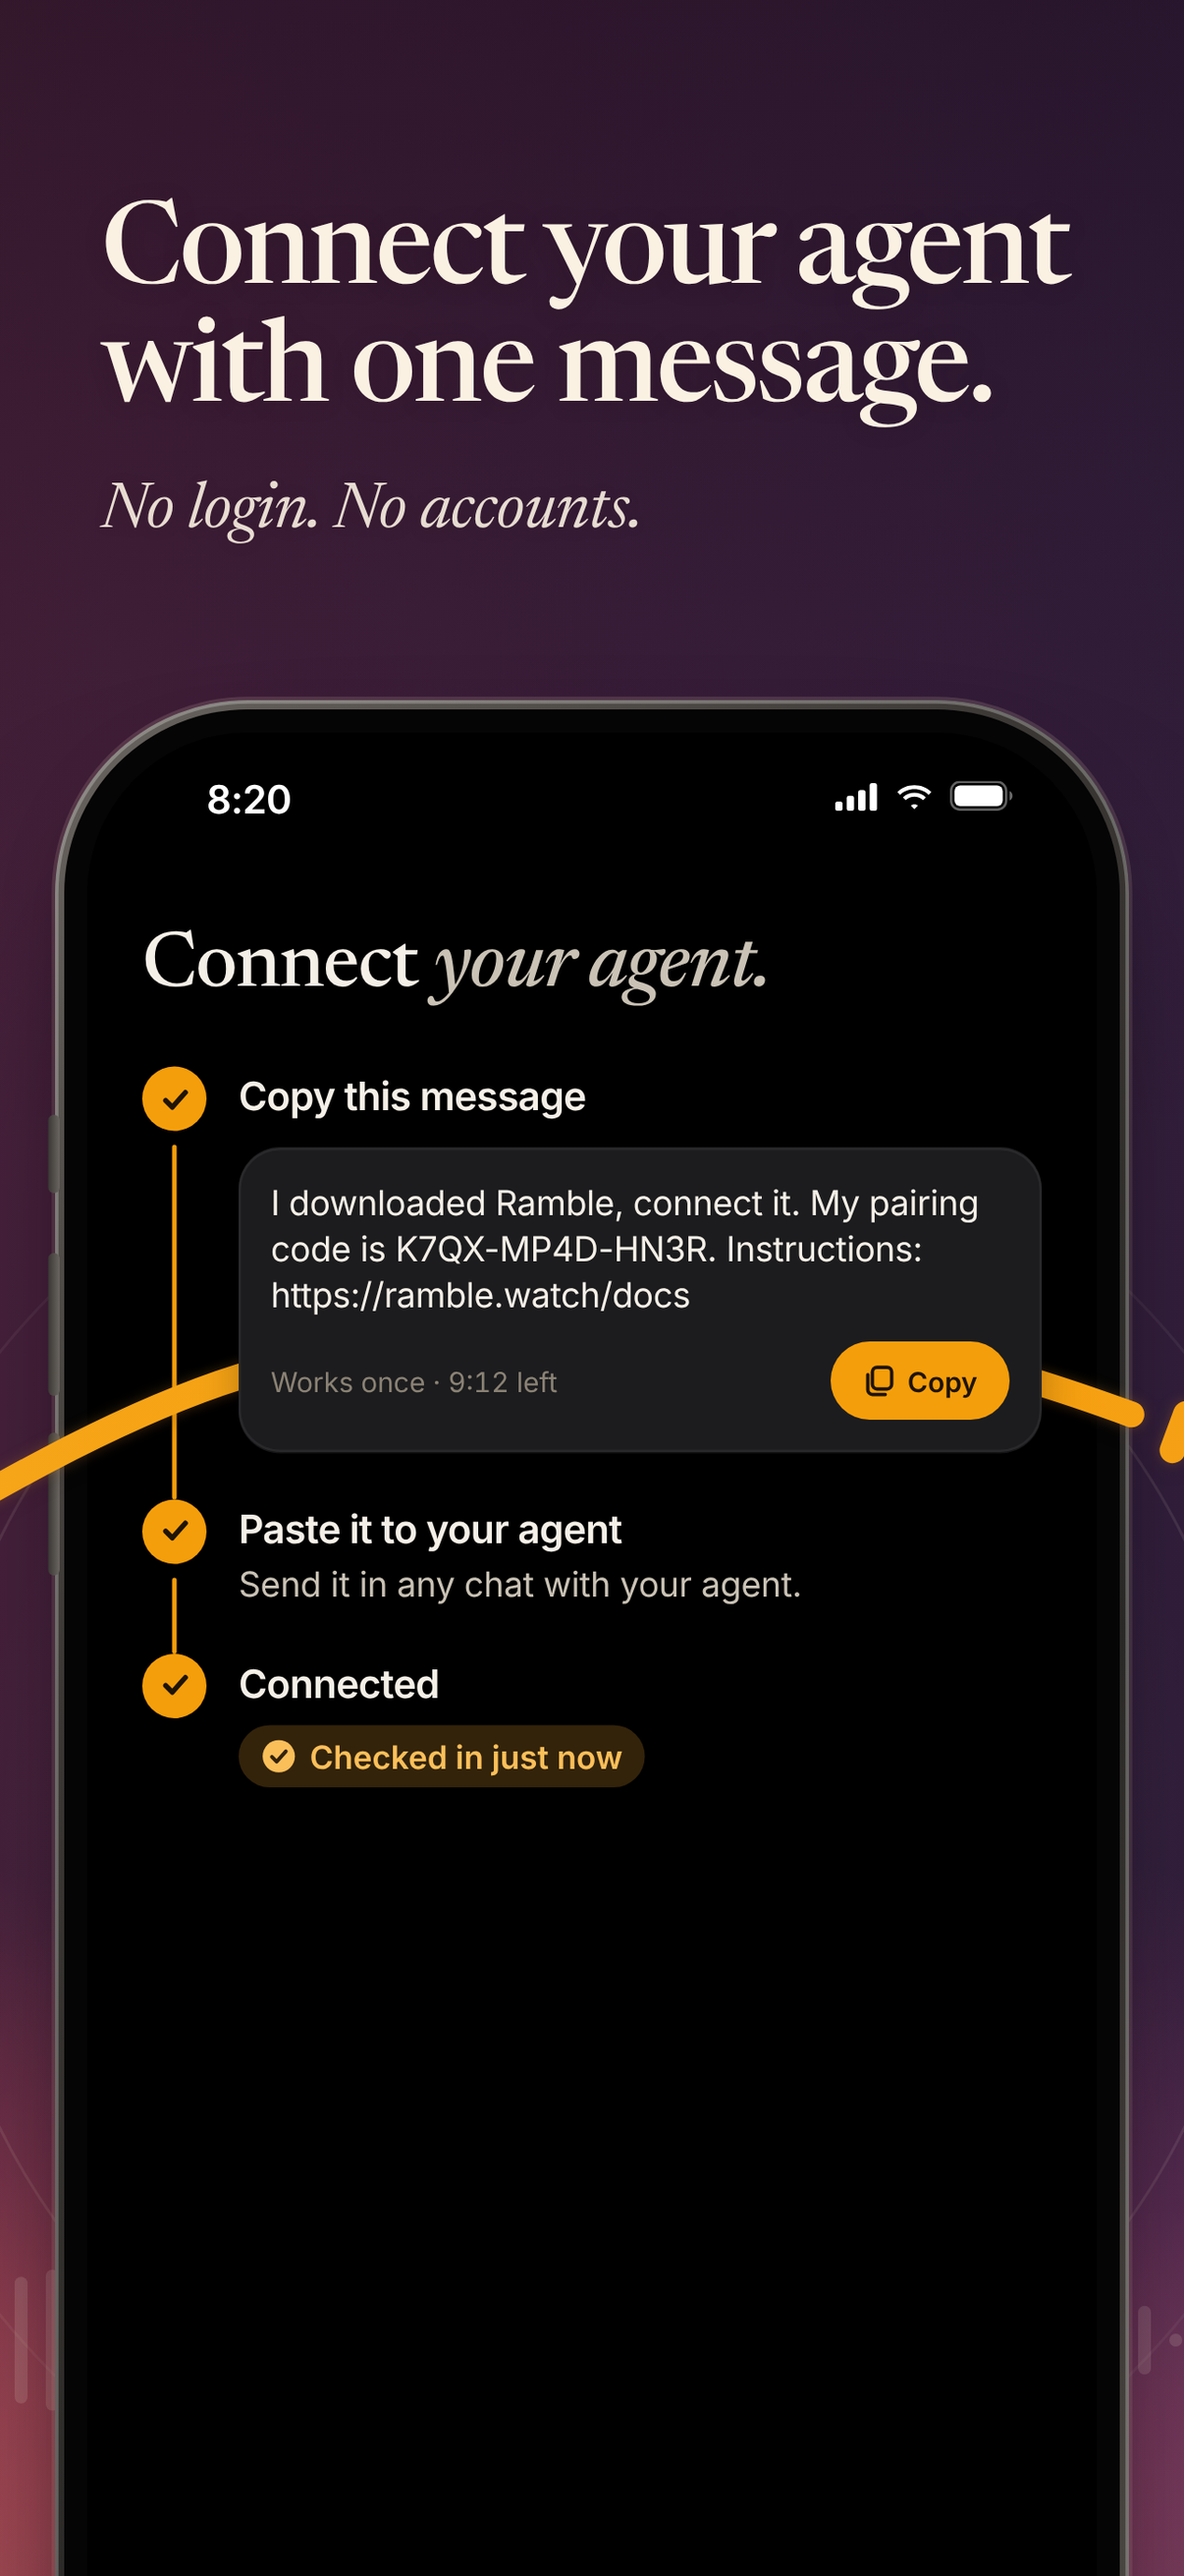
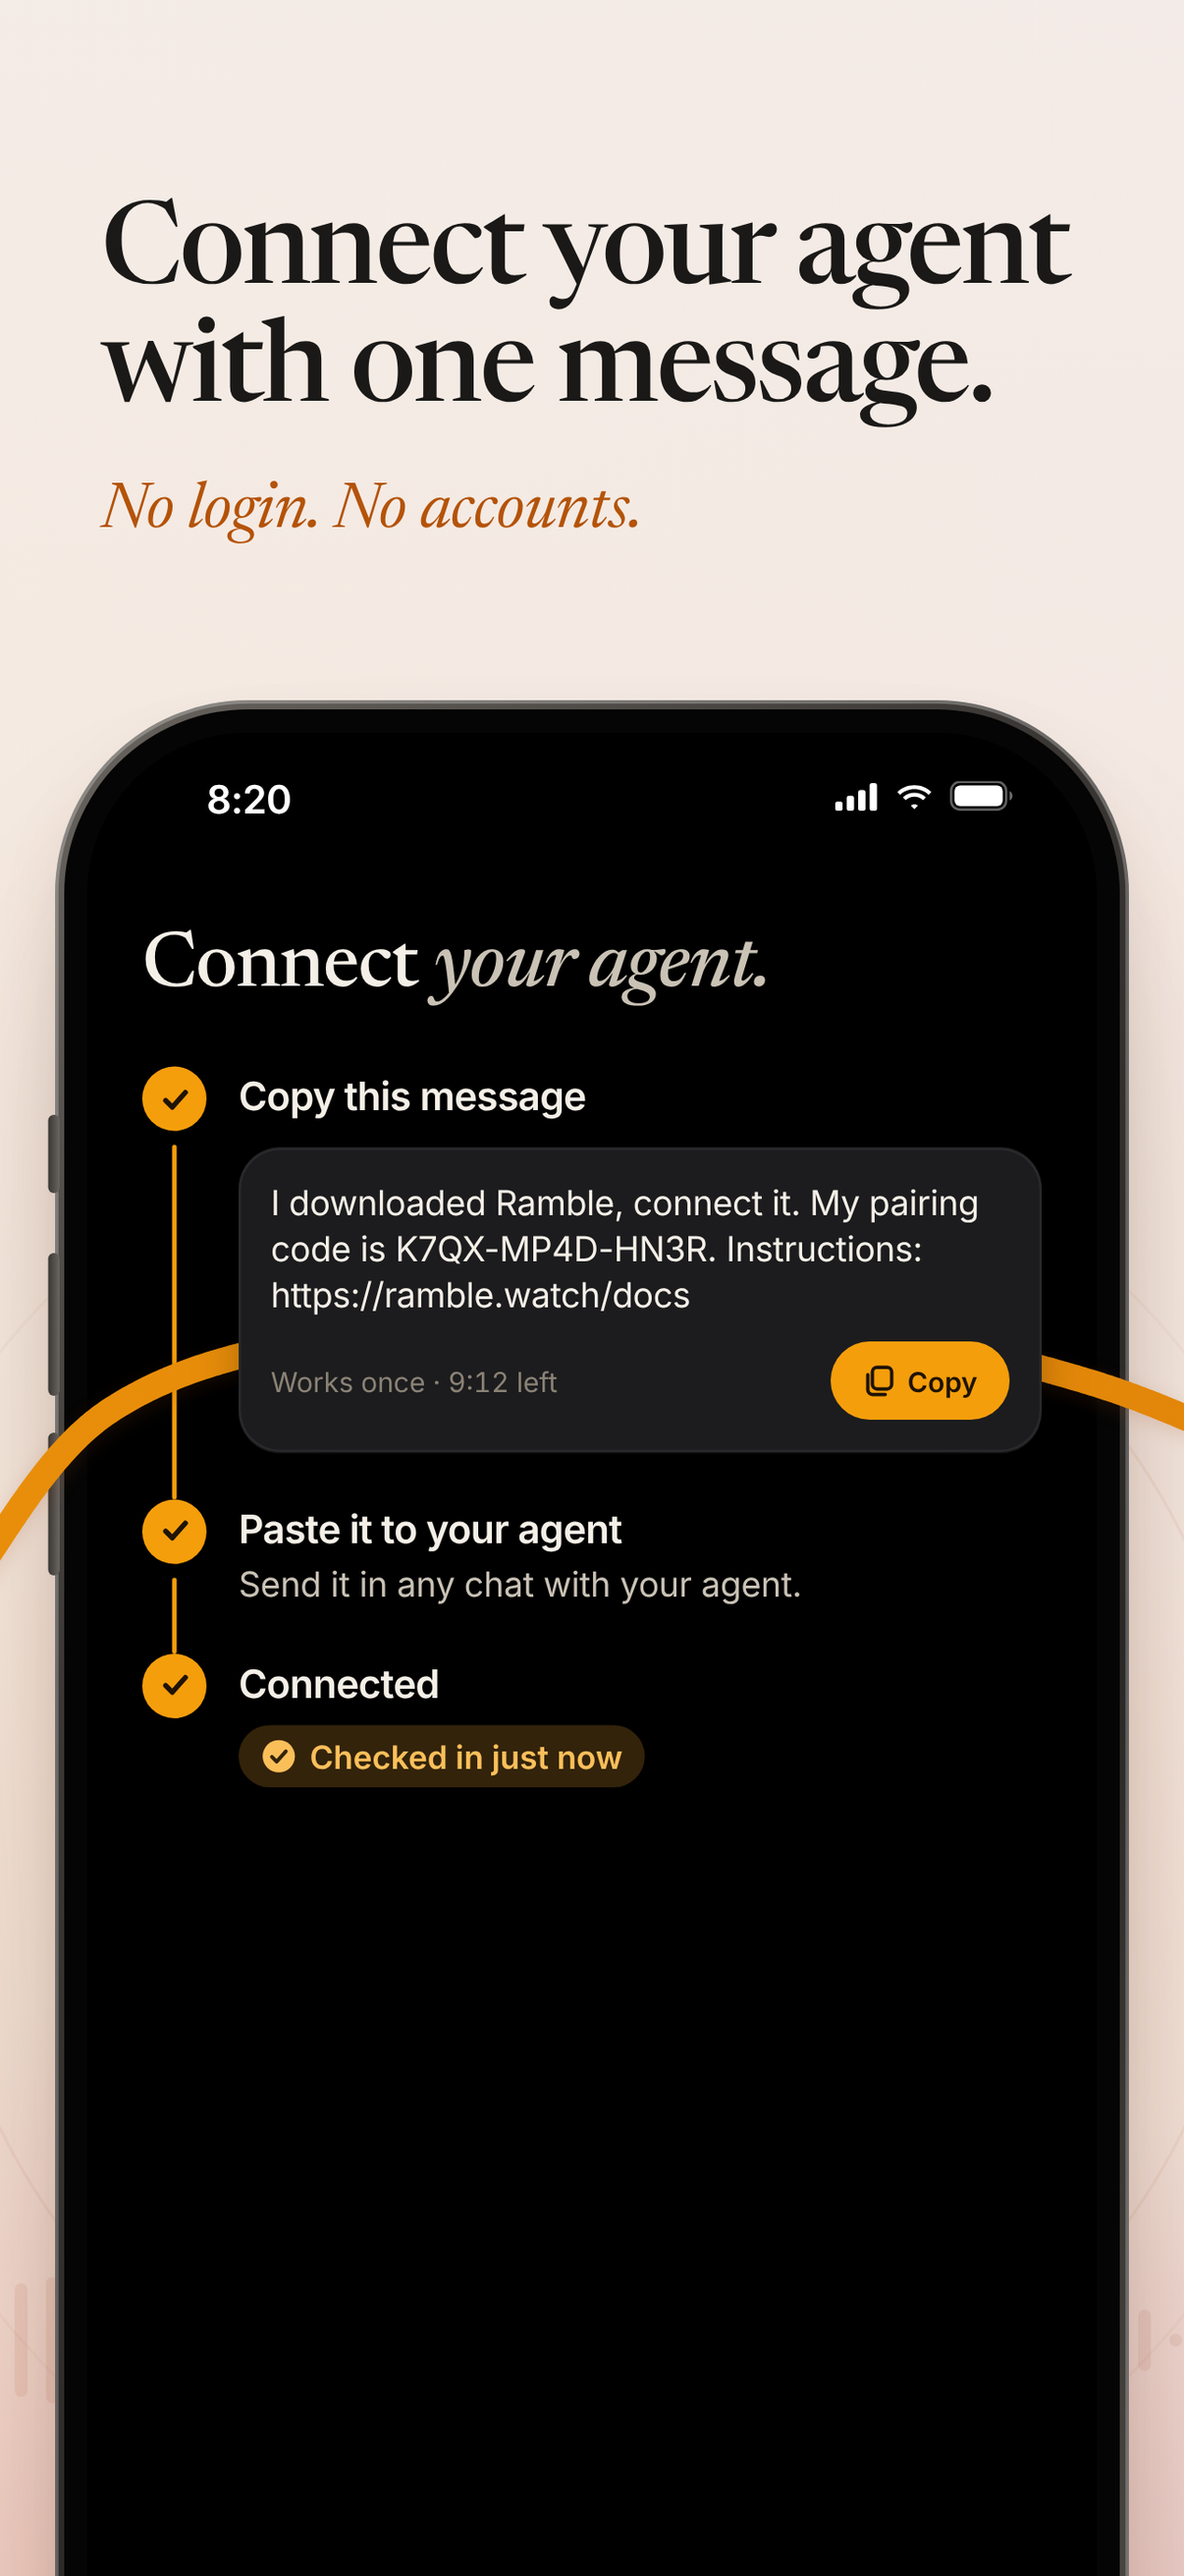
App Store screenshots: light sunset wash and one flowing line
Follows Justin's sketch: dots rise out of the watch and join the line, a hairpin carries the words, the line curls into the watch, crosses the phone under the message and eases into the relay node. Frame 2's watch sits higher. Source: one-line.html?bg=w.

Claude-Session: https://claude.ai/code/session_01TreUG6Gw8YWAnJM4u7RM4H

diff --git a/images/appstore/2026-sunset/source/one-line.html b/images/appstore/2026-sunset/source/one-line.html
@@ -164,6 +164,24 @@ body[data-bg="e"] #bg {
     linear-gradient(180deg, rgba(255,240,222,.12) 0%, rgba(255,240,222,0) 30%, rgba(0,0,0,0) 70%, rgba(40,24,12,.18) 100%),
     linear-gradient(90deg, #B9A088 0%, #AA9179 40%, #9C836E 75%, #8E7663 100%);
 }
+/* w: the light sunset wash of the website hero and the product page header, with the flowing line */
+body[data-bg="w"] { --t1: #1A1917; --t2: #1A1917; --t3: #1A1917; --t4: #1A1917; --t5: #1A1917; --words: #8C4A1C;
+  --a0: #F59E0B; --a1: #EE930A; --a2: #E58A0A; --a3: #D97706; --node-fill: transparent; }
+body[data-bg="w"] .copy p { color: #B45309; opacity: 1; }
+body[data-bg="w"] #ink { filter: drop-shadow(0 6px 10px rgba(150,70,20,.16)); }
+body[data-bg="w"] .watch .case { box-shadow: inset 0 0 0 1.5px rgba(255,255,255,.22), inset 0 2px 2px rgba(255,255,255,.12), 0 34px 60px -20px rgba(90,50,30,.40), 0 10px 22px -8px rgba(90,50,30,.26); }
+body[data-bg="w"].dark .phone { box-shadow: 0 60px 100px -40px rgba(90,50,30,.45), 0 16px 32px -10px rgba(90,50,30,.25), inset 0 0 0 1.5px rgba(255,255,255,.26); }
+body[data-bg="w"].dark .phone.set { box-shadow: 0 50px 70px -30px rgba(90,50,30,.40), inset 0 0 0 1.5px rgba(255,255,255,.26); }
+body[data-bg="w"] #bg {
+  background:
+    radial-gradient(1500px 1250px at 300px 2900px, rgba(244,150,70,.34) 0%, rgba(244,150,70,0) 70%),
+    radial-gradient(1500px 1250px at 1600px 2950px, rgba(242,130,70,.30) 0%, rgba(242,130,70,0) 70%),
+    radial-gradient(1500px 1250px at 2950px 2900px, rgba(232,110,86,.28) 0%, rgba(232,110,86,0) 70%),
+    radial-gradient(1500px 1250px at 4400px 2950px, rgba(214,100,112,.26) 0%, rgba(214,100,112,0) 70%),
+    radial-gradient(1500px 1250px at 5900px 2900px, rgba(160,88,146,.24) 0%, rgba(160,88,146,0) 70%),
+    linear-gradient(90deg, rgba(250,214,170,.18) 0%, rgba(246,196,170,.14) 50%, rgba(232,190,200,.16) 100%),
+    linear-gradient(180deg, #F4F3EF 0%, #F6EFE6 50%, #F3E3D6 100%);
+}
 
 * { box-sizing: border-box; margin: 0; padding: 0; }
 html, body { width: 6450px; height: 2796px; overflow: hidden; background: #1C1512; }
@@ -520,6 +538,11 @@ if (['p','q','r'].includes(params.get('bg'))) { FLAIR = 'o'; }
 if (params.get('bg') === 'p') WAVE = { h: 250, op: .12, echo: .055 };
 if (params.get('bg') === 'q') WAVE = { h: 290, op: .15, echo: .07 };
 if (params.get('bg') === 'r') WAVE = { h: 290, op: .15, echo: 0 };
+if (params.get('bg') === 'w') { LINE = 'flow'; FLAIR = 'o'; WAVE = { h: 260, op: .10, echo: 0 };
+  // flow layout: frame 2's watch sits higher, frame 3's watch moves right so the hairpin curls into its side
+  const devs = document.querySelectorAll('#pano > .dev');
+  devs[2].style.top = '1960px';
+  devs[3].style.left = '3420px'; devs[3].style.top = '2010px'; }
 if (params.has('debug')) document.body.classList.add('debug');
 
 // ?ipad=1: the phones become iPads (for the 13" iPad set, see ipad-render.js)
@@ -647,7 +670,34 @@ const NODES_T = [
 ];
 // the iPad's message box is wider and shorter: stay level through it for longer
 if (params.has('ipad')) NODES_T[10] = [4640, MSGY, 0, 420, 560];
-const d =LINE === 'sine' ? 'M' + LP.map(q => q[0].toFixed(1) + ',' + q[1].toFixed(1)).join(' L') : nodesToPath(LINE === 'r9' ? NODES : NODES_T);
+// flow: one hand-drawn line through all five frames (Justin's sketch). A centripetal Catmull-Rom spline through
+// loose points, so it bends like a pen stroke: up out of the watch, a hairpin with the words, round into the
+// watch, across the phone under the message, and level into the relay node.
+const FLOW = [
+  [1112, 1806], [1380, 1600], [1720, 1385], [2110, 1190], [2520, 1060],       // F1-F2: rising, dotted until it reconnects
+  [2950, 1006], [3330,  998], [3540, 1062], [3590, 1170], [3470, 1290],       // F3: run A, the hairpin
+  [3140, 1430], [2850, 1600], [2740, 1790], [2830, 1950], [3090, 2010],       //     run B down to the left, round into the watch
+  [3420, 1975], [3740, 1830], [3990, MSGY + 120], [4300, MSGY + 30], [4700, MSGY + 20], // F4: out by the crown, up into the message
+  [5060, MSGY + 90], [5345, 1622],                                            // F5: easing down into the relay node
+];
+function flowPath(P, alpha = 0.5) {
+  const Q = [[2 * P[0][0] - P[1][0], 2 * P[0][1] - P[1][1]], ...P, [2 * P[P.length - 1][0] - P[P.length - 2][0], 2 * P[P.length - 1][1] - P[P.length - 2][1]]];
+  const out = [P[0]];
+  for (let i = 1; i < Q.length - 2; i++) {
+    const [p0, p1, p2, p3] = [Q[i - 1], Q[i], Q[i + 1], Q[i + 2]];
+    const tj = (a, b) => Math.pow(Math.hypot(b[0] - a[0], b[1] - a[1]), alpha);
+    const t0 = 0, t1 = t0 + tj(p0, p1), t2 = t1 + tj(p1, p2), t3 = t2 + tj(p2, p3);
+    const n = Math.ceil(Math.hypot(p2[0] - p1[0], p2[1] - p1[1]) / 4);
+    for (let k = 1; k <= n; k++) {
+      const t = t1 + (t2 - t1) * k / n, L2 = (a, b, ta, tb) => [0, 1].map(j => (tb - t) / (tb - ta) * a[j] + (t - ta) / (tb - ta) * b[j]);
+      const A1 = L2(p0, p1, t0, t1), A2 = L2(p1, p2, t1, t2), A3 = L2(p2, p3, t2, t3);
+      const B1 = L2(A1, A2, t0, t2), B2 = L2(A2, A3, t1, t3);
+      out.push(L2(B1, B2, t1, t2));
+    }
+  }
+  return 'M' + out.map(q => q[0].toFixed(1) + ',' + q[1].toFixed(1)).join(' L');
+}
+const d = LINE === 'flow' ? flowPath(FLOW) : LINE === 'sine' ? 'M' + LP.map(q => q[0].toFixed(1) + ',' + q[1].toFixed(1)).join(' L') : nodesToPath(LINE === 'r9' ? NODES : NODES_T);
 const spine = document.getElementById('spine'), ink = document.getElementById('ink');
 spine.setAttribute('d', d);
 const L = spine.getTotalLength();
@@ -667,35 +717,8 @@ const ease = t => t * t * (3 - 2 * t);
 const level = i => [0.62, 1, 0.78, 0.92, 0.56, 0.84, 0.7][i % 7];
 const PITCH = 54;
 
-// 1) F1: evenly spaced voice bars easing down into the line
-const BARS1 = 7;
-for (let i = 0; i < BARS1; i++) {
-  const t = i / (BARS1 - 1);
-  bar(PITCH * 0.5 + i * PITCH, STROKE + 14 + 52 * level(i) * (1 - ease(t)));
-}
-const lineStart = PITCH * 0.5 + BARS1 * PITCH;
-
-// 2) solid until the signal drops, dotted while the note waits, a reconnect point, solid again
 const sAtX = (x, from = 0) => { for (const [s, px] of samples) if (s >= from && px >= x) return s; return L; };
-const dot0 = LINE === 'r9' ? sNear(1960, 1320) : sAtX(1900), sR = LINE === 'r9' ? sNear(2230, 1085) : sAtX(2250);
-solid(lineStart, dot0);
-const DOT = 50, nDots = Math.floor((sR - 40 - (dot0 + DOT)) / DOT);
-const dotStep = (sR - 40 - (dot0 + DOT)) / nDots;
-for (let k = 0; k <= nDots; k++) { const p = at(dot0 + DOT + k * dotStep); el('circle', { cx: p.x.toFixed(1), cy: p.y.toFixed(1), r: (STROKE / 2 - 3).toFixed(1), stroke: 'none' }); }
-const pR = at(sR);
-el('circle', { cx: pR.x, cy: pR.y, r: 30, fill: 'none', 'stroke-width': 5.5, opacity: .7 });
-
-// 3) F5: the line breaks into evenly spaced bars that shrink to nothing at the relay node
-const sLineEnd = LINE === 'r9' ? sNear(5110, MSGY + 90) : sAtX(5100, sAtX(4000, sAtX(3700, sAtX(3000)))), sNode = L;
-solid(sR, sLineEnd);
-const BARS2 = 4, step2 = (sNode - 34 - sLineEnd) / BARS2;
-for (let i = 1; i <= BARS2; i++) bar(sLineEnd + i * step2, 70 - (i - 1) * 16);
-const pN = at(sNode);
-el('circle', { cx: pN.x, cy: pN.y, r: 24, fill: 'var(--node-fill)', 'stroke-width': 7 });
-// after the node only a thin line goes on: the transcript, into the history list
-const thin = nodesToPath([[pN.x + 24, pN.y + 1.5, 4, 0, 50], [5470, 1628, 0, 50, 80], [5720, 1628, 0, 80, 0]]);
-el('path', { d: thin, fill: 'none', 'stroke-width': 8, 'stroke-linecap': 'round' });
-
+let pR, pN;
 // 4) F3: the words ride just above the two calm runs, always left to right
 function offsetPath(s0, s1, off) {
   const pts = [];
@@ -716,9 +739,63 @@ function say(id, s0, s1, text) {
   const tp = el('textPath', { href: '#' + id, startOffset: '50%' }, t); tp.textContent = text;
   said.push([t, s1 - s0]);
 }
+if (LINE === 'flow') {
+// flow: voice bars out of the watch break into dots (no signal), the dots close up and join into the line
+// as it reconnects, and the line runs solid to the relay node
+const sSolid = sAtX(2480), sNodeF = L;
+{
+  const BARSF = 6;
+  for (let i = 0; i < BARSF; i++) bar(PITCH * 0.5 + i * PITCH, STROKE + 12 + 58 * level(i) * (1 - ease(i / (BARSF - 1))));
+  let s = PITCH * 0.5 + BARSF * PITCH + 8;
+  const s0 = s;
+  while (s < sSolid - 30) {
+    const t = (s - s0) / (sSolid - s0), p = at(s);
+    el('circle', { cx: p.x.toFixed(1), cy: p.y.toFixed(1), r: (STROKE / 2 - 4 + 2 * t).toFixed(1), stroke: 'none' });
+    s += 66 - 30 * ease(t);
+  }
+  solid(sSolid, sNodeF - 24);
+  pR = at(sSolid);
+  pN = at(sNodeF);
+  el('circle', { cx: pN.x, cy: pN.y, r: 24, fill: 'var(--node-fill)', 'stroke-width': 7 });
+  const thin = nodesToPath([[pN.x + 24, pN.y + 1.5, 4, 0, 50], [5470, 1628, 0, 50, 80], [5720, 1628, 0, 80, 0]]);
+  el('path', { d: thin, fill: 'none', 'stroke-width': 8, 'stroke-linecap': 'round' });
+}
+say('wA', sNear(2640, 1040), sNear(3380, 1004), 'so um, the garage thing… wait, oat milk…');
+const sB0f = sNear(3420, 1310, sNear(3590, 1170));
+say('wB', sB0f, sNear(2800, 1680, sB0f), 'and call Sam back about Thursday…');
+} else {
+// 1) F1: evenly spaced voice bars easing down into the line
+const BARS1 = 7;
+for (let i = 0; i < BARS1; i++) {
+  const t = i / (BARS1 - 1);
+  bar(PITCH * 0.5 + i * PITCH, STROKE + 14 + 52 * level(i) * (1 - ease(t)));
+}
+const lineStart = PITCH * 0.5 + BARS1 * PITCH;
+
+// 2) solid until the signal drops, dotted while the note waits, a reconnect point, solid again
+const dot0 = LINE === 'r9' ? sNear(1960, 1320) : sAtX(1900), sR = LINE === 'r9' ? sNear(2230, 1085) : sAtX(2250);
+solid(lineStart, dot0);
+const DOT = 50, nDots = Math.floor((sR - 40 - (dot0 + DOT)) / DOT);
+const dotStep = (sR - 40 - (dot0 + DOT)) / nDots;
+for (let k = 0; k <= nDots; k++) { const p = at(dot0 + DOT + k * dotStep); el('circle', { cx: p.x.toFixed(1), cy: p.y.toFixed(1), r: (STROKE / 2 - 3).toFixed(1), stroke: 'none' }); }
+pR = at(sR);
+el('circle', { cx: pR.x, cy: pR.y, r: 30, fill: 'none', 'stroke-width': 5.5, opacity: .7 });
+
+// 3) F5: the line breaks into evenly spaced bars that shrink to nothing at the relay node
+const sLineEnd = LINE === 'r9' ? sNear(5110, MSGY + 90) : sAtX(5100, sAtX(4000, sAtX(3700, sAtX(3000)))), sNode = L;
+solid(sR, sLineEnd);
+const BARS2 = 4, step2 = (sNode - 34 - sLineEnd) / BARS2;
+for (let i = 1; i <= BARS2; i++) bar(sLineEnd + i * step2, 70 - (i - 1) * 16);
+pN = at(sNode);
+el('circle', { cx: pN.x, cy: pN.y, r: 24, fill: 'var(--node-fill)', 'stroke-width': 7 });
+// after the node only a thin line goes on: the transcript, into the history list
+const thin = nodesToPath([[pN.x + 24, pN.y + 1.5, 4, 0, 50], [5470, 1628, 0, 50, 80], [5720, 1628, 0, 80, 0]]);
+el('path', { d: thin, fill: 'none', 'stroke-width': 8, 'stroke-linecap': 'round' });
+
 say('wA', sNear(2690, 975), sNear(3680, LINE === 'r9' ? 965 : 975), 'so um, the garage thing… wait, oat milk…');
 const sB0 = sNear(3680, 1195, sNear(3790, 1085));
 say('wB', sB0, sNear(2850, 1195, sB0), 'and call Sam back about Thursday…');
+}
 // one size for both runs: the largest that fits the longer one
 function fitWords() {
   let size = 60;
@@ -735,11 +812,11 @@ function fitWords() {
   if (!FLAIR) return;
   const F = document.getElementById('flair');
   const mk = (tag, at) => { const e = document.createElementNS(ns, tag); for (const k in at) e.setAttribute(k, at[k]); F.appendChild(e); return e; };
-  const CREAM = '#FFF1DC';
+  const WASH = document.body.dataset.bg === 'w', CREAM = WASH ? '#B4593A' : '#FFF1DC';
   const rings = FLAIR === 'm' || FLAIR === 'o', wave = FLAIR === 'n' || FLAIR === 'o';
   if (rings) {
     // [cx, cy, first radius, step, count, opacity]
-    const DEV = FLAIR === 'm'
+    const DEV = WASH ? [[640, 1835, 580, 104, 3, .10], [2200, 1960, 420, 90, 2, .08], [3420, 2010, 490, 100, 3, .10], [4515, 1990, 720, 110, 2, .08], [5896, 2109, 580, 104, 2, .08]] : FLAIR === 'm'
       ? [[640, 1835, 560, 92, 4, .16], [2200, 2100, 400, 80, 3, .14], [3300, 1860, 470, 88, 4, .16], [4515, 1990, 700, 96, 3, .12], [5896, 2109, 560, 92, 3, .12]]
       : [[640, 1835, 580, 104, 3, .13], [2200, 2100, 420, 90, 2, .11], [3300, 1860, 490, 100, 3, .13], [4515, 1990, 720, 110, 2, .10], [5896, 2109, 580, 104, 2, .10]];
     const cdefs = mk('defs', {});
@@ -752,7 +829,7 @@ function fitWords() {
     for (const [cx, cy, r0] of DEV) {
       const g = mk('circle', { cx, cy, r: r0 * 0.95, fill: 'url(#halo)' });
     }
-    const defs = mk('defs', {}); defs.innerHTML = '<radialGradient id="halo"><stop offset="0" stop-color="#FFE7C2" stop-opacity="' + (FLAIR === 'm' ? .16 : .11) + '"/><stop offset="1" stop-color="#FFE7C2" stop-opacity="0"/></radialGradient>';
+    const defs = mk('defs', {}); defs.innerHTML = '<radialGradient id="halo"><stop offset="0" stop-color="' + (WASH ? '#F6B26B' : '#FFE7C2') + '" stop-opacity="' + (WASH ? .16 : FLAIR === 'm' ? .16 : .11) + '"/><stop offset="1" stop-color="' + (WASH ? '#F6B26B' : '#FFE7C2') + '" stop-opacity="0"/></radialGradient>';
     F.insertBefore(defs, F.firstChild);
   }
   if (FLAIR === 'm') {

diff --git a/docs/app-store.md b/docs/app-store.md
@@ -100,7 +100,7 @@ Requires an Apple Watch paired with an iPhone.
 
 Short, one thought each, in this order. Mindfulness first: a short headline and a smaller second line. The first screenshot shows the watch, not the phone.
 
-The iPhone screenshots (1206 × 2622, the size App Store Connect accepted) and the product page header (5244 × 2950 and 3840 × 1646) are in `images/appstore/2026-sunset/`. Their HTML source is in `source/` there (open `one-line.html?bg=t` for the shipped look; it renders at 1290 × 2796, so scale to 1206 × 2622); change the copy here first, then re-render. iPad gets one plain 13-inch screenshot (2064 × 2752), `ipad/ipad-1.png`: Home on an iPad on the sunset background, with no headline. The watch can't pair with an iPad, so the iPad listing doesn't pitch anything. Render it with `node source/ipad-render.js <abs path to one-line.html> <out png>`. Apple Watch screenshots (422 × 514, Ultra simulator) are in `watch/`, and the unlock sheet screenshot for the in-app purchase review is in `review/`.
+The iPhone screenshots (1206 × 2622, the size App Store Connect accepted) and the product page header (5244 × 2950 and 3840 × 1646) are in `images/appstore/2026-sunset/`. Their HTML source is in `source/` there (open `one-line.html?bg=w` for the shipped look: the light sunset wash of the web hero and one flowing line; it renders at 1290 × 2796, so scale to 1206 × 2622); change the copy here first, then re-render. iPad gets one plain 13-inch screenshot (2064 × 2752), `ipad/ipad-1.png`: Home on an iPad on the sunset background, with no headline. The watch can't pair with an iPad, so the iPad listing doesn't pitch anything. Render it with `node source/ipad-render.js <abs path to one-line.html> <out png>`. Apple Watch screenshots (422 × 514, Ultra simulator) are in `watch/`, and the unlock sheet screenshot for the in-app purchase review is in `review/`.
 
 1. Stay in the moment. (Say it. Let it go. Nothing comes back to your wrist.)
 2. Leave your phone behind. (No signal needed. It sends later.)
